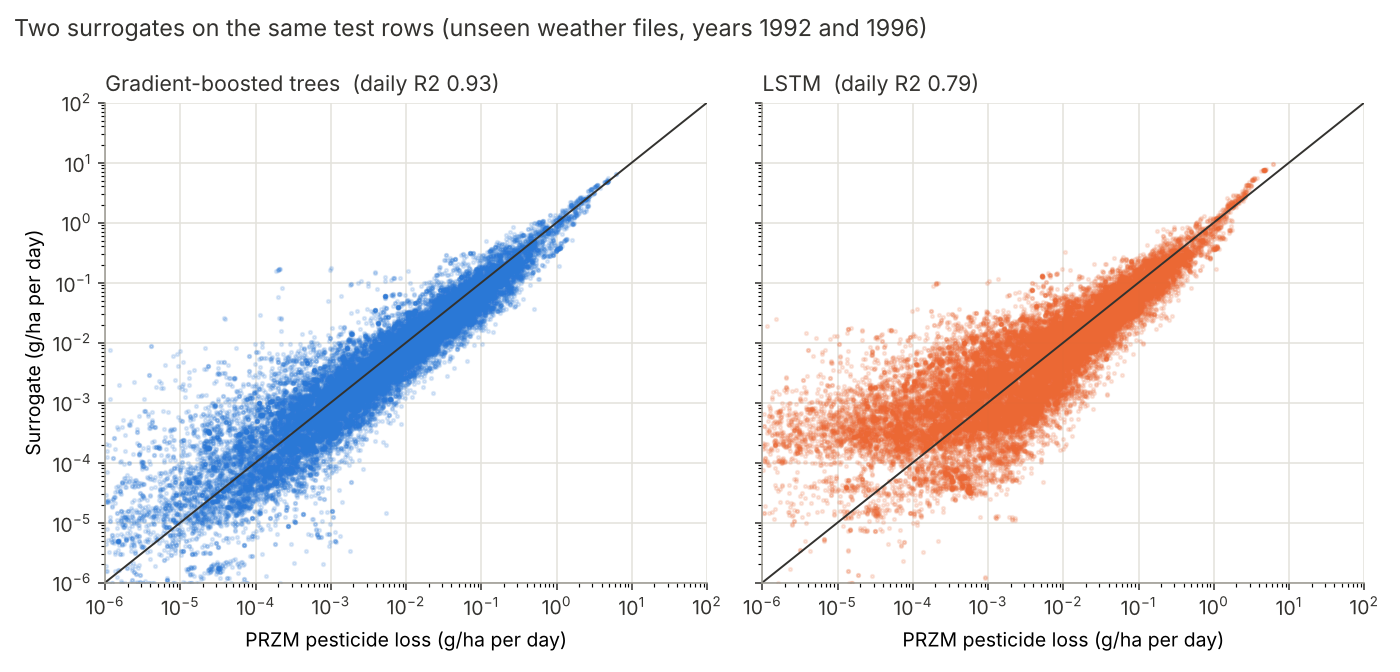
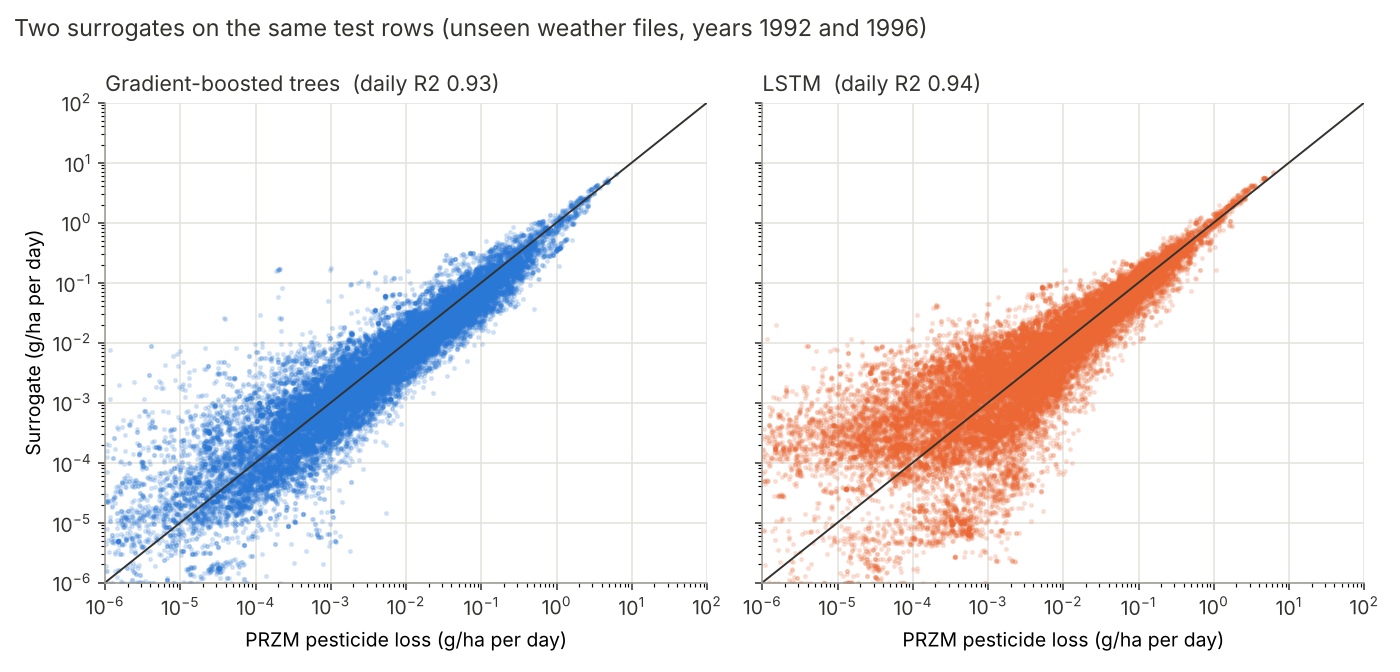
LSTM comparison results, progress slides linked, roadmap updated
On the same test rows (test weather files, 1992 and 1996) a small LSTM
matches the tree surrogate on daily pesticide loss (R2 0.94 vs 0.93) and
finds more high-loss days (PR-AUC 0.97 vs 0.91), but is less exact on small
losses. One test on two years; the year-by-year test is the next step.

Claude-Session: https://claude.ai/code/session_01T1sfAJWbJXhoHJecgvw1dC

Changed region(s): [[0.5221, 0.2812, 0.8907, 0.875], [0.6757, 0.0938, 0.7064, 0.1562], [0.8907, 0.25, 0.9214, 0.2812]]

diff --git a/docs/MODEL_REPORT.md b/docs/MODEL_REPORT.md
@@ -1,7 +1,8 @@
 # Model report: surrogate of PRZM, high-loss days, spray-day advisor
 
 All numbers are from `python -m runoffwatch train --cv` (leave-one-year-out) and
-`python -m runoffwatch train` (final models, figures) on 16 Nov 2026. Machine-readable:
+`python -m runoffwatch train` (final models, figures) on 16 Nov 2026; the LSTM comparison is in
+[`results/lstm_vs_trees.json`](results/lstm_vs_trees.json). Machine-readable:
 [`results/cv_summary.json`](results/cv_summary.json), [`results/cv_by_year.csv`](results/cv_by_year.csv),
 [`results/model_metrics.json`](results/model_metrics.json).
 Which data went in: [DATA_REPORT.md](DATA_REPORT.md).
@@ -130,6 +131,38 @@ Honest reading:
 About 0.01 s for a 10-year run on one laptop core, against 2-4 s for PRZM
 inside xLandscape (from the run logs): a few hundred times faster.
 
+### A second surrogate: LSTM
+
+`python -m runoffwatch lstm`. An LSTM is a neural network that reads the daily weather day by day
+and keeps its own memory, instead of using hand-made inputs such as "rain in the previous 7 days".
+Ours is small (24,000 parameters, 12 minutes of training on a laptop). Both surrogates were
+trained without the years 1992, 1994 and 1996 and compared on exactly the same test rows
+(test weather files, years 1992 and 1996; 278,370 rain days, 288 high-loss days).
+
+| | Trees (main surrogate) | LSTM |
+|---|---|---|
+| Runoff, daily R² | 0.98 | 0.98 |
+| Runoff, median error of a run's total | 6 % | 3 % |
+| Pesticide loss, daily R² | 0.93 | 0.94 |
+| Pesticide loss, R² of the logarithm (small losses count as much as large ones) | 0.85 | 0.68 |
+| Pesticide loss, median error of a run's total | 18 % | 11 % |
+| Sum of all loss, surrogate / PRZM | 0.89 | 1.05 |
+| High-loss days, PR-AUC | 0.91 | 0.97 |
+| Alarm at 1 g/ha: share of alarms that are real / share of high-loss days found | 91 % / 78 % | 89 % / 90 % |
+
+![LSTM vs trees](figures/m8_lstm_vs_trees.png)
+
+Reading:
+- On the large losses, which decide the totals and the high-loss days, the LSTM is at least as
+  good as the trees and finds clearly more high-loss days. On small losses it is much less exact.
+- **This is one test on two years.** The trees were tested by leaving out each of nine years; the
+  LSTM was not (that takes about two hours). A year's score depends on a handful of storms, so the
+  LSTM's lead may shrink or grow on other years.
+- The result depends on training length: stopped after 25 rounds instead of 44, the same LSTM
+  scored only 0.79 on daily pesticide loss.
+- The advisor still uses the trees: they are tested more thoroughly and need no extra software.
+  Running the year-by-year test for the LSTM is the obvious next step.
+
 ## 4. What drives high-loss days
 
 ![SHAP ranking](figures/m4_shap_ranking.png)
@@ -193,5 +226,6 @@ on 19-23 February loses almost nothing in the following 14 days; spraying on
 - New PRZM runs with varied spray date, dose and substance, and a control group for the Henry
   constant: prepared in [NEW_RUNS_PLAN.md](NEW_RUNS_PLAN.md), waiting for the model owners.
 - Test the surrogate on the 1979-2024 Agri4Cast weather for France (46 years it has never seen).
+- Year-by-year test for the LSTM; if its lead holds, make it the main surrogate.
 - Reduce the remaining underestimation in years with extreme storms.
 - SHAP for the surrogate itself, not only for the classifier.

diff --git a/README.md b/README.md
@@ -14,6 +14,7 @@ Course project, ETX8 Landscape modelling, RPTU Kaiserslautern-Landau.
 | [docs/PROJECT_SCOPE.md](docs/PROJECT_SCOPE.md) | Scope and research questions |
 | [docs/NEW_RUNS_PLAN.md](docs/NEW_RUNS_PLAN.md) | Prepared experiment: new simulations with varied spray date, dose and substance |
 | [docs/ROADMAP.md](docs/ROADMAP.md) | What is done and what is next |
+| [Progress slides](https://claude.ai/artifact/VzutykKbE1M1tja2ZrZHcj) · [first pitch](https://claude.ai/artifact/Y82phRAgCapMtktvPri94c) | Presentations (private until shared by the owner) |
 
 ## Main results so far
 
@@ -28,6 +29,8 @@ Course project, ETX8 Landscape modelling, RPTU Kaiserslautern-Landau.
   It finds high-loss days with PR-AUC 0.92: 91 % of its alarms are real, and it finds 76 % of
   the high-loss days. It underestimates total loss by about 8 %.
 - It is a few hundred times faster than PRZM.
+- A second surrogate, a small LSTM, matches the trees on daily pesticide loss and finds more
+  high-loss days in a first test on two years; it still needs the year-by-year test.
 
 Everything describes the PRZM model for Flufenacet at 2.4 kg/ha on winter cereals
 sprayed on 1 March. It is not validated against measurements.

diff --git a/docs/ROADMAP.md b/docs/ROADMAP.md
@@ -44,6 +44,7 @@ Still to do:
 - [x] Final models trained on all years
 - [x] Underestimation of large losses reduced (concentration model now trained on amounts, not logarithms); not removed
 - [x] Sequence model (LSTM) as a second surrogate, compared on the same test rows (`python -m runoffwatch lstm`)
+- [ ] Year-by-year test for the LSTM (about 2 hours); if its lead holds, make it the main surrogate
 - [ ] Look at the days where the surrogate is most wrong; are they special (snow, very long dry spells)?
 - [ ] SHAP for the surrogate itself, not only for the classifier
 - [ ] Sarah: do the driver ranking and the risk calendar make physical sense?
@@ -71,6 +72,7 @@ Still to do:
 
 ## Phase 7 – Report and presentation
 - [ ] Report (Sarah: environmental part; Saad: methods)
+- [x] Progress slides (16 Nov 2026): https://claude.ai/artifact/VzutykKbE1M1tja2ZrZHcj
 - [ ] Final slides
 - [ ] Verify the entries marked "[not verified]" in RELATED_WORK.md before citing them
 
